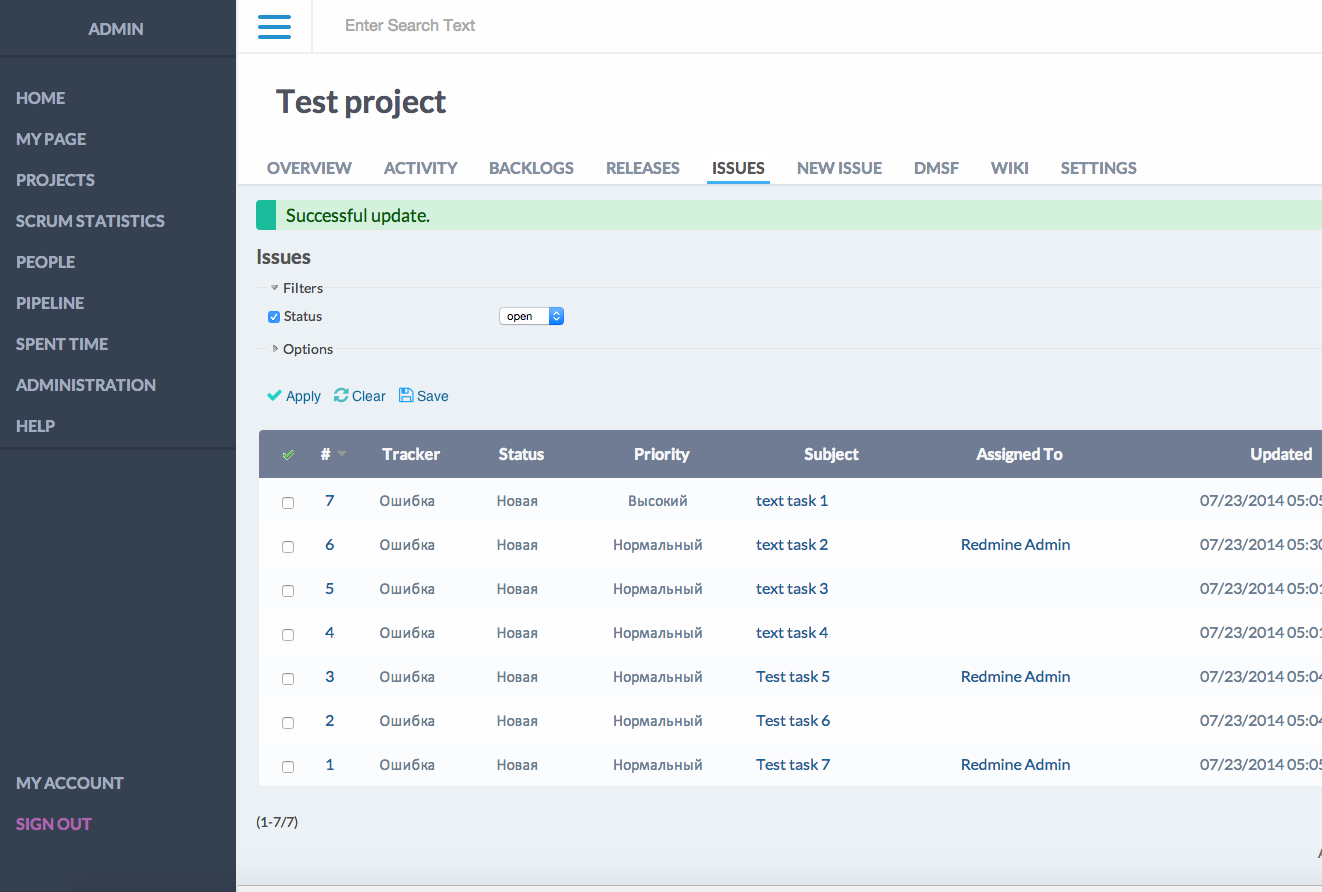
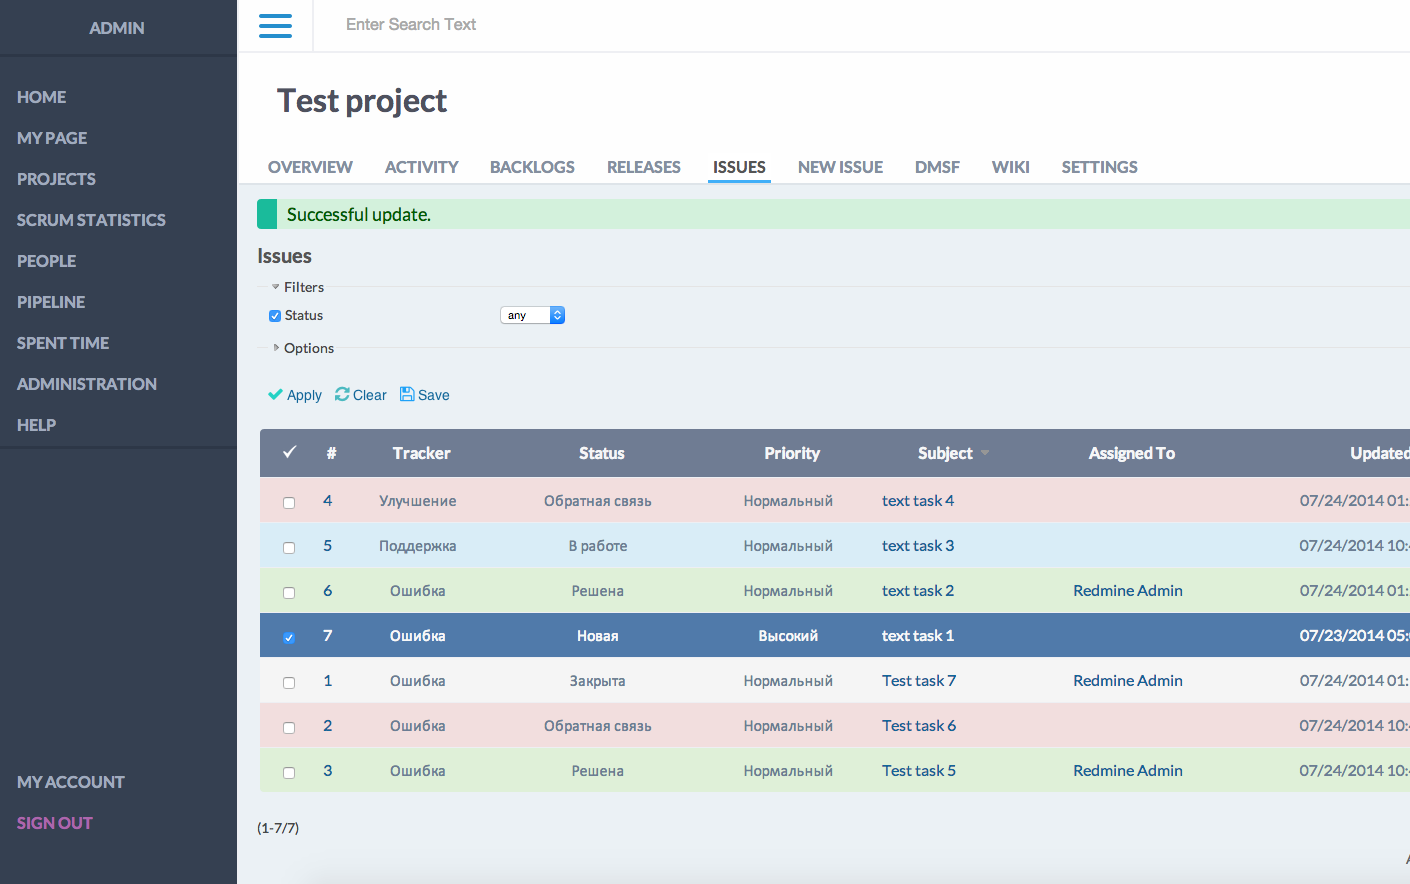
update screenshots and README.md

diff --git a/README.md b/README.md
@@ -2,6 +2,11 @@
 
 ## Changelog
 
+### 0.0.2
+- Added colors for different statuses issues (tnx [@jongha](https://github.com/jongha) for idea)
+- Design submit buttons
+- Fix DMSF plugin styles
+
 ### 0.0.1
 - Added basic styles
 - Replaced some icons
